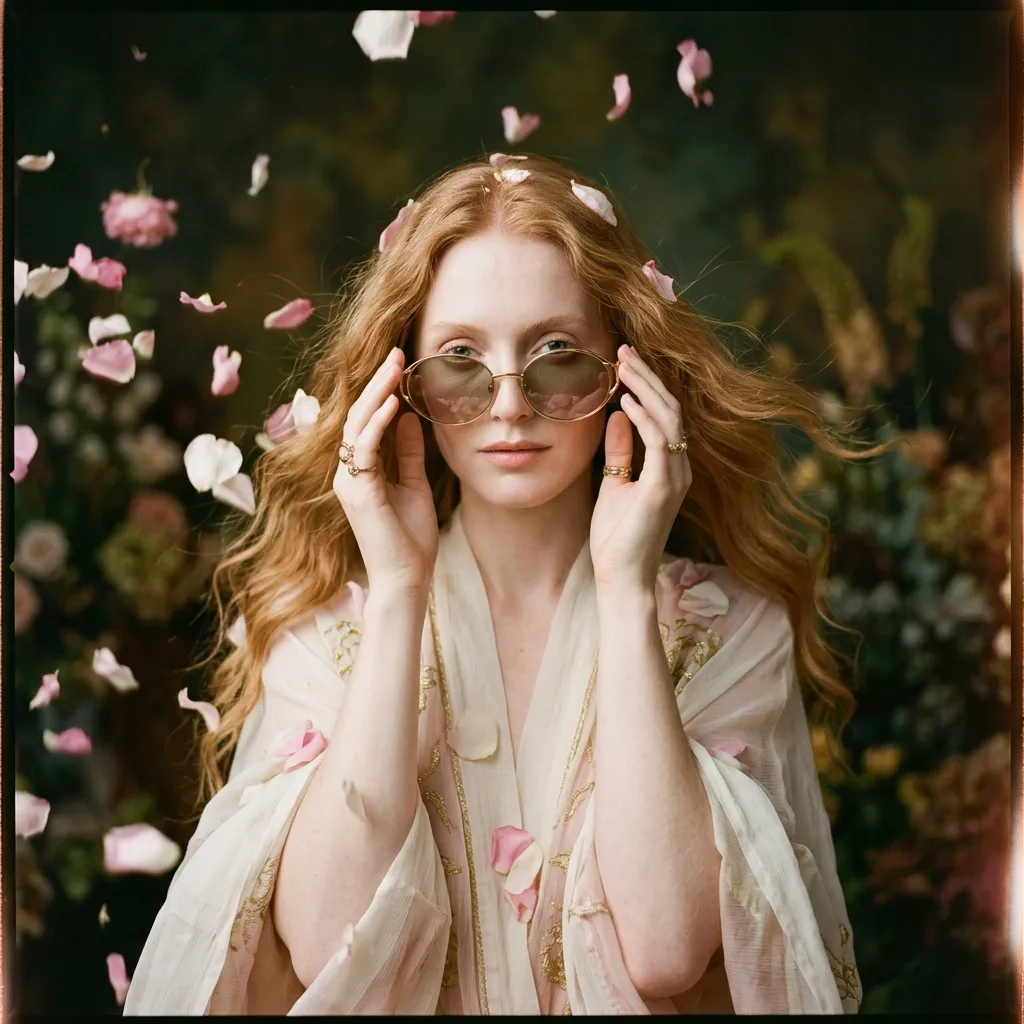
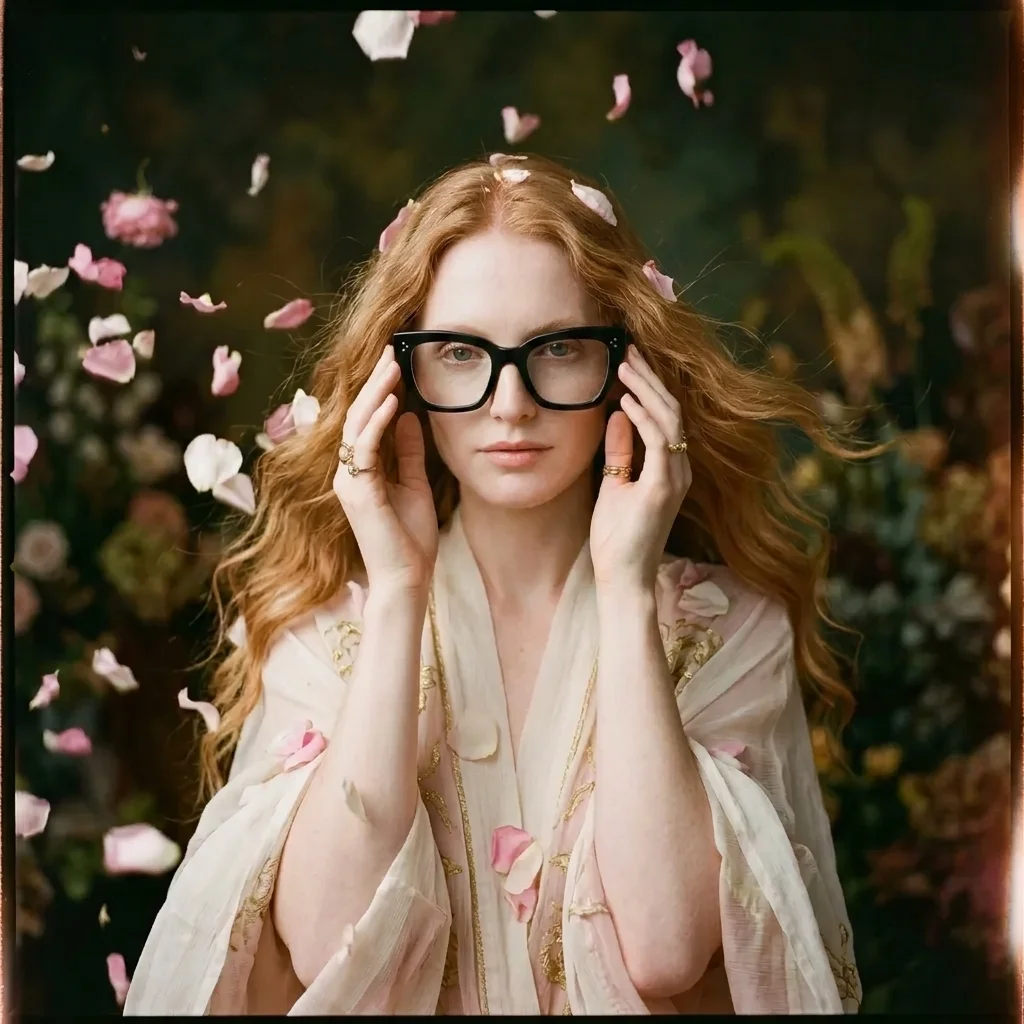
style: allow manual scrolling in product carousel and update venus image to calypso

Changed region(s): [[0.3438, 0.2812, 0.6562, 0.4375]]

diff --git a/src/components/Storefront/HomeProductCarousel.tsx b/src/components/Storefront/HomeProductCarousel.tsx
@@ -91,7 +91,7 @@ export function HomeProductCarousel({ products }: Props) {
     <section className="w-full bg-white pb-20">
       <div 
         ref={carouselRef}
-        className="flex w-full overflow-hidden [-ms-overflow-style:none] [scrollbar-width:none] [&::-webkit-scrollbar]:hidden"
+        className="flex w-full overflow-x-auto [-ms-overflow-style:none] [scrollbar-width:none] [&::-webkit-scrollbar]:hidden"
       >
         {/* Duplicamos para el loop infinito suave */}
         {[...products, ...products].map((item, i) => (